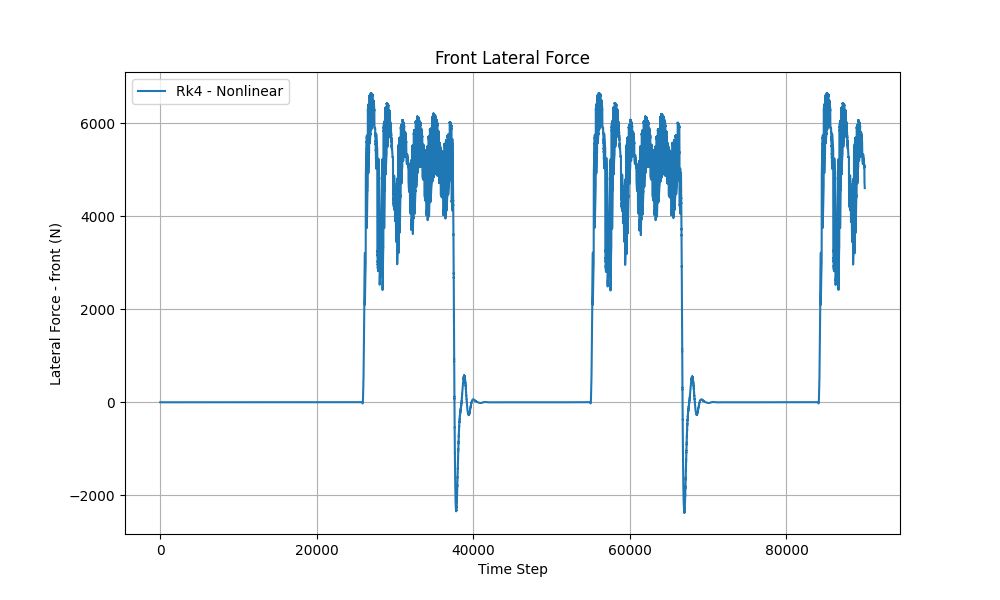
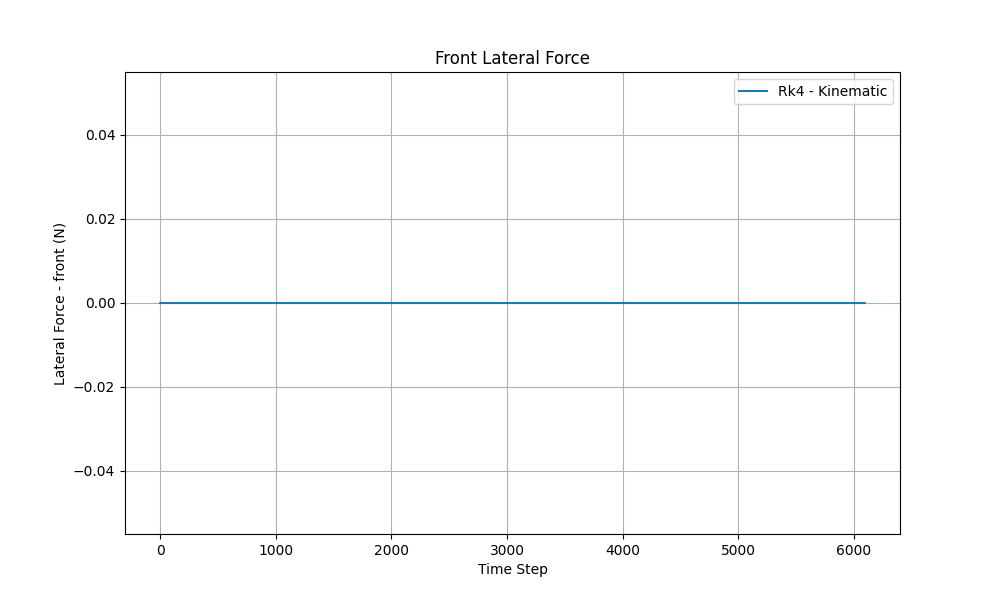
edit parameters

diff --git a/mpc.py b/mpc.py
@@ -3,7 +3,7 @@ from casadi import *
 from casadi.tools import *
 
 class MPC:
-    def __init__(self, T, dt, N, max_steer, min_steer):
+    def __init__(self, T, dt, N, max_steer, min_steer, gain_mult):
         # MPC time
         self.T = T  # Horizon length in seconds
         self.dt = dt # Horizon timesteps
@@ -11,7 +11,7 @@ class MPC:
 
         self.max_steer = max_steer # Maximum steering angle in radians
         self.min_steer = min_steer  # Minimum steering angle in radians
-
+        self.gain_mult = gain_mult
         self.F = 0
     def casadi_model(self):
         # Control
@@ -74,17 +74,16 @@ class MPC:
         G = None
         lbg = []
         ubg = []
-
         # For every temporal step
         for k in range(nu):
             X = self.F(X, vertcat(Us[k])) #Integrate the step
-            gain_mult = 1
+            # gain_mult = 1
             # give more importance to the last step using a bigger gain
             if(k == nu-1):
-                gain_mult=1 #You can use this multiplier as terminal cost
-            J += 100.0*gain_mult*(X[0]-target[k][0])**2 #x error cost 
-            J += 100.0*gain_mult*(X[1]-target[k][1])**2 #y error cost
-            #J += 10.0*gain_mult*(X[2] - target[k][2])**2 #heading error cost
+                self.gain_mult=1 #You can use this multiplier as terminal cost
+            J += 100.0*self.gain_mult*(X[0]-target[k][0])**2 #x error cost 
+            J += 100.0*self.gain_mult*(X[1]-target[k][1])**2 #y error cost
+            J += 10.0*self.gain_mult*(X[2]-target[k][2])**2 #heading error cost
         # G = X[index] #if you want to set a state to constrain in arg["lbg"] and arg["ubg"]. It can be ignored
 
 

diff --git a/main.py b/main.py
@@ -21,7 +21,7 @@ long_control_pid = pid.PIDController(kp=PID_params.kp, ki=PID_params.ki, kd=PID_
 # Create instance of PurePursuit, Stanley and MPC for Lateral Control
 pp_controller = purepursuit.PurePursuitController(vehicle_params.wheelbase, vehicle_params.max_steer)
 stanley_controller = stanley.StanleyController(stanley_params.k_stanley, vehicle_params.lf, vehicle_params.max_steer, stanley_params.k_he, stanley_params.k_ctc)
-mpc_controller = mpc.MPC(MPC_params.T, MPC_params.dt, MPC_params.N, vehicle_params.max_steer, vehicle_params.min_steer)
+mpc_controller = mpc.MPC(MPC_params.T, MPC_params.dt, MPC_params.N, vehicle_params.max_steer, vehicle_params.min_steer, MPC_params.gain_mult)
 
 def load_path(file_path):
     file = open(file_path, "r")
@@ -185,11 +185,14 @@ def run_simulation(ax, steer, dt, integrator, model, steps=500):
         if(sim_params.controller == 'mpc'):
             # get future horizon targets pose
             targets = [ ]
+
             s_pos = path_spline.cur_s
             for i in range(mpc_controller.N):
                 step_increment = (sim.vx)*dt
                 trg = point_transform(path_spline.calc_position(s_pos), actual_pose, sim.theta)
-                trg = [ trg[0], trg[1] ]
+                #print(trg)
+                #heading_angle = math.atan2(trg[1], trg[0]) 
+                trg = [ trg[0], trg[1], 0 ]
                 targets.append(trg)
                 s_pos += step_increment
 

diff --git a/parameters.py b/parameters.py
@@ -4,11 +4,11 @@ class SimulationParameters:
     steer = 0.0                 # Constant steering angle (rad)
     sim_time = 90.0             # Simulation duration in seconds
     steps = int(sim_time / dt)  # Simulation steps (30 seconds)
-    target_speed = 28.0
-    controller = 'purepursuit'
+    target_speed = 20.0
+    controller = 'mpc'
     figures_path = 'figures/general'
     vehicle_model = [
-        ("rk4", "nonlinear"),
+        ("rk4", "kinematic"),
     ]
 
 
@@ -43,6 +43,7 @@ class StanleyParameters:
 
 
 class MpcParameters:
+    gain_mult = 1
     T =  1                    # Horizon length in seconds
     dt = 0.05                 # Horizon timesteps
     N = int(T/dt)             # Horizon total points
